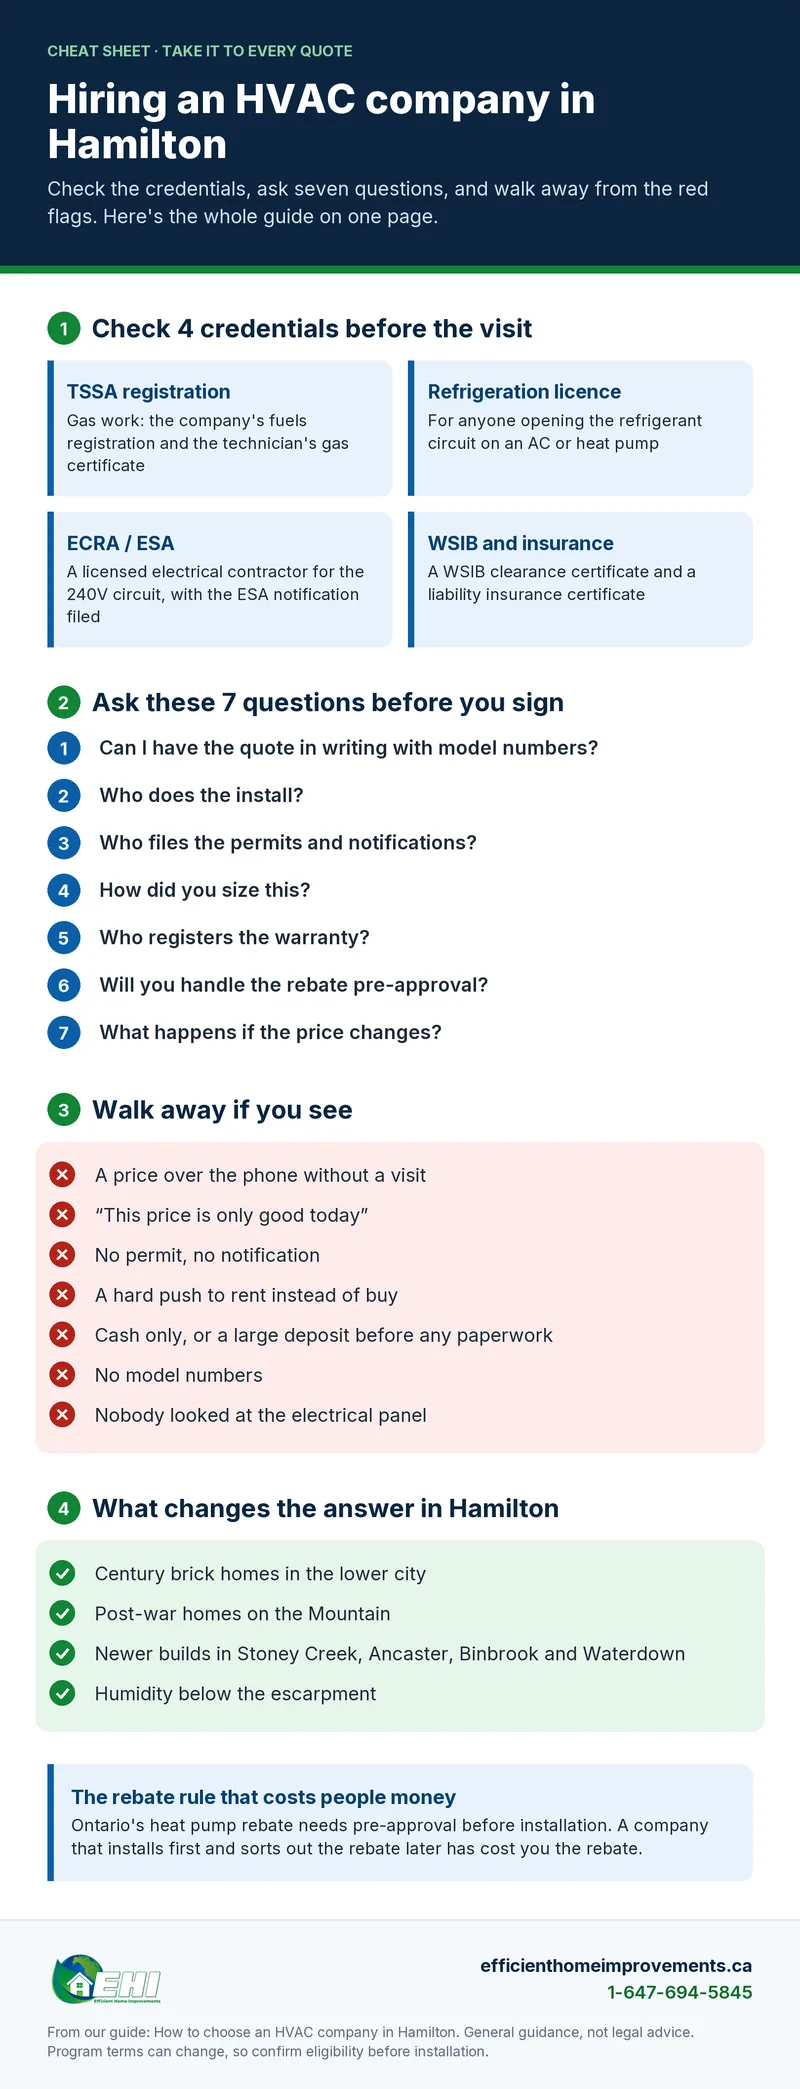
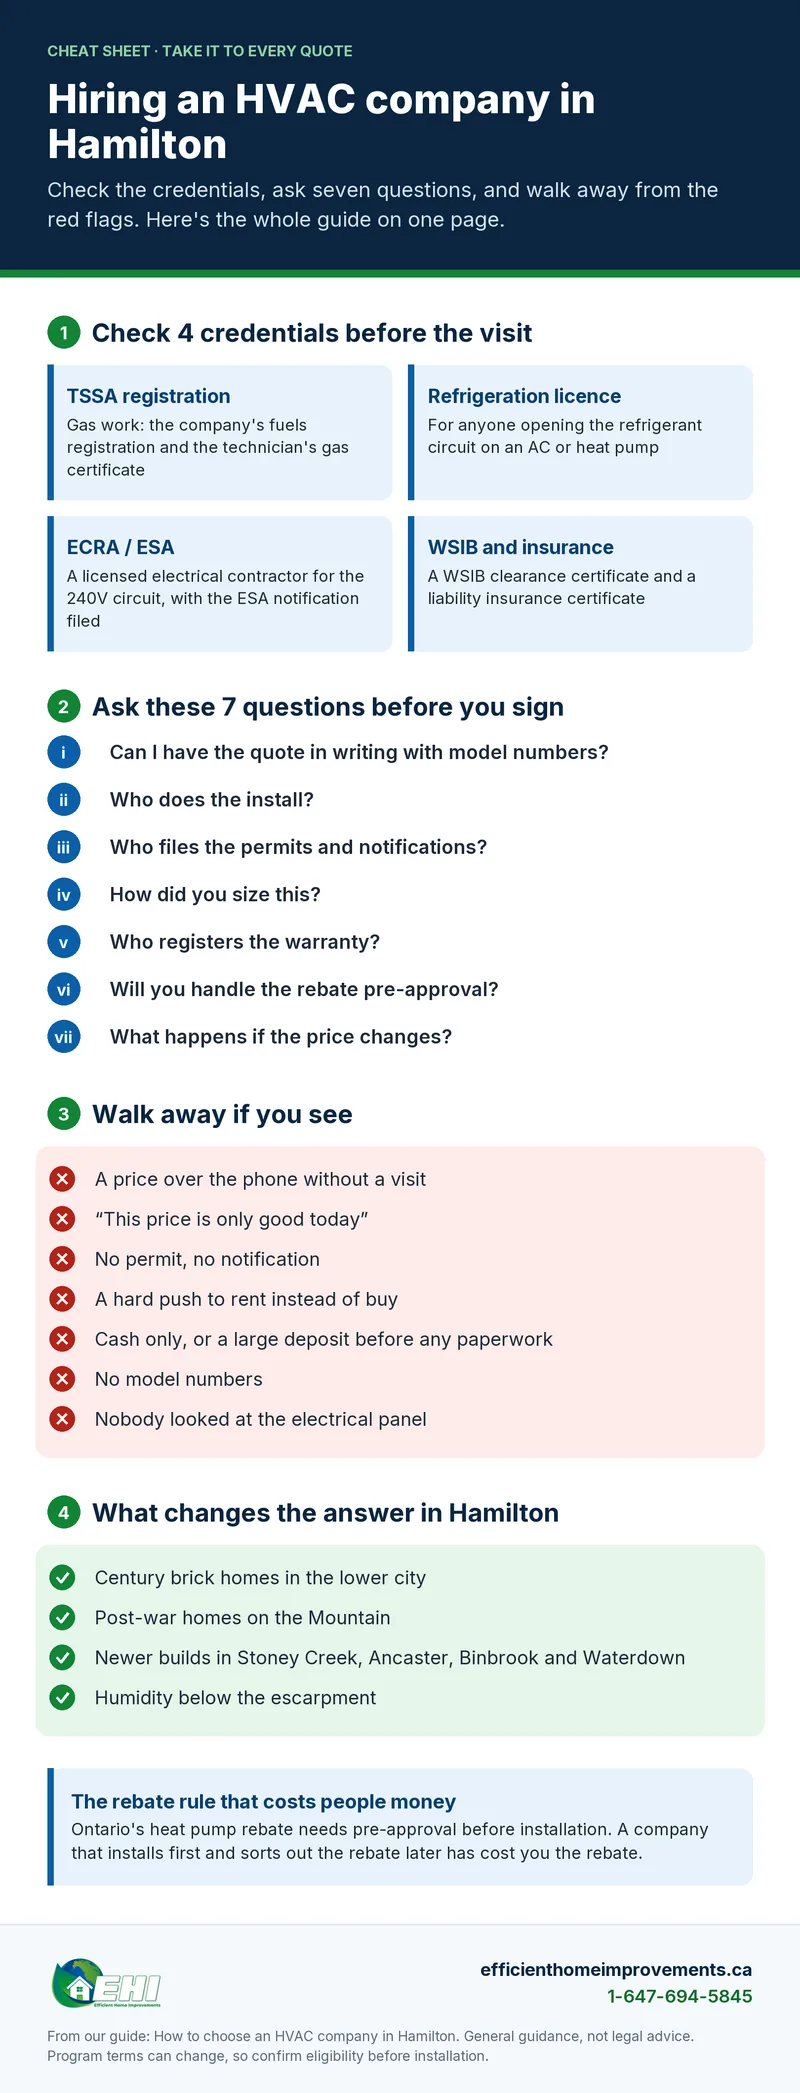
Rebate infographic: less text, large key figures, roman numerals for steps; roman numerals in city question lists; no caption on the rebate post; versioned infographic URLs

diff --git a/tools/make_infographics.py b/tools/make_infographics.py
@@ -72,20 +72,28 @@ def icon_x(c, cx, cy, r=17):
     k = r * .38
     c.line([(cx - k, cy - k), (cx + k, cy + k)], "white", 4)
     c.line([(cx - k, cy + k), (cx + k, cy - k)], "white", 4)
-def badge_num(c, cx, cy, n, r=22, bg=BLUE):
-    c.circle(cx, cy, r, bg)
-    c.text(cx, cy + 1, str(n), 24, "Bold", "white", "mm")
+ROMAN = ["i", "ii", "iii", "iv", "v", "vi", "vii", "viii", "ix", "x"]
+def badge_num(c, cx, cy, n, r=22, bg=BLUE, size=24):
+    """Round badge for 1 to 9; a pill when the label is longer (roman numerals)."""
+    label = str(n)
+    tw = font(size, "Bold").getlength(label) / S
+    if tw + 16 <= 2 * r:
+        c.circle(cx, cy, r, bg)
+    else:
+        c.rect(cx - r, cy - r, tw + 24, 2 * r, bg, r)
+        cx = cx - r + (tw + 24) / 2
+    c.text(cx, cy + 1, label, size, "Bold", "white", "mm")
 
 # ---------------------------------------------------------------- blocks
-def header(c, y, eyebrow, title, subtitle):
+def header(c, y, eyebrow, title, subtitle, tsize=54):
     inner = W - 2 * PAD
-    h = 56 + 26 + 18 + c.para_h(title, 54, inner, "ExtraBold", 1.12) + 18 + c.para_h(subtitle, 26, inner, lh=1.42) + 56
+    h = 56 + 26 + 18 + c.para_h(title, tsize, inner, "ExtraBold", 1.12) + (18 + c.para_h(subtitle, 28, inner, lh=1.42) if subtitle else 0) + 56
     c.rect(0, y, W, h, NAVY)
     c.rect(0, y + h - 10, W, 10, GREEN)
     yy = y + 56
     c.text(PAD, yy, eyebrow.upper(), 20, "Bold", "#8FD3A3"); yy += 26 + 18
-    yy = c.para(PAD, yy, title, 54, inner, "ExtraBold", "white", 1.12) + 18
-    c.para(PAD, yy, subtitle, 26, inner, fill="#D6E2EE", lh=1.42)
+    yy = c.para(PAD, yy, title, tsize, inner, "ExtraBold", "white", 1.12) + 18
+    if subtitle: c.para(PAD, yy, subtitle, 28, inner, fill="#D6E2EE", lh=1.42)
     return y + h
 
 def section_title(c, y, n, title):
@@ -111,10 +119,11 @@ def cards(c, y, items, cols=2, accent=BLUE):
 
 def numbered(c, y, items):
     tw = W - 2 * PAD - 70
-    for n, s in enumerate(items, 1):
+    tw = W - 2 * PAD - 84
+    for n, s in enumerate(items):
         h = max(48, c.para_h(s, 26, tw, "SemiBold"))
-        badge_num(c, PAD + 22, y + 18, n)
-        c.para(PAD + 70, y + 2, s, 26, tw, "SemiBold", TEXT)
+        badge_num(c, PAD + 22, y + 18, ROMAN[n], bg=BLUE, size=21)
+        c.para(PAD + 84, y + 2, s, 26, tw, "SemiBold", TEXT)
         y += h + 16
     return y - 16
 
@@ -148,17 +157,56 @@ def timeline(c, y, steps):
         c.para(PAD + 76, y2, b, 22, tw, fill=MUTED)
     return y - 26
 
-def table(c, y, head, rows):
+def steps(c, y, items, size=31):
+    """Ordered steps with roman labels. items: (text, tag or None); a tag marks the step that matters most."""
+    x0 = PAD + 26
+    pos, yy = [], y
+    for t, tag in items:
+        h = max(56, c.para_h(t, size, W - 2 * PAD - 260 if tag else W - 2 * PAD - 96, "Bold", 1.2))
+        pos.append((yy, h)); yy += h + 22
+    c.line([(x0, y + 26), (x0, pos[-1][0] + 26)], LINE, 5)
+    for n, ((t, tag), (sy, h)) in enumerate(zip(items, pos)):
+        badge_num(c, x0, sy + 26, ROMAN[n], 26, GREEN if tag else BLUE, 22)
+        c.para(PAD + 96, sy + 6, t, size, W - 2 * PAD - 260 if tag else W - 2 * PAD - 96, "Bold", NAVY, 1.2)
+        if tag:
+            tw = font(20, "Bold").getlength(tag.upper()) / S
+            c.rect(W - PAD - tw - 36, sy + 8, tw + 36, 40, GREEN_LIGHT, 20)
+            c.text(W - PAD - tw / 2 - 18, sy + 28, tag.upper(), 20, "Bold", GREEN_DARK, "mm")
+    return yy - 22
+
+def stat_cards(c, y, items):
+    """Two side-by-side cards led by a big number. items: (label, big, lines, tag, accent)."""
+    gap, inner = 24, W - 2 * PAD
+    cw = (inner - gap) / 2
+    tw = cw - 56
+    def height(label, big, lines, tag):
+        return 30 + 26 + 10 + 64 + 12 + sum(c.para_h(l, 25, tw, "Medium", 1.3) + 14 for l in lines) + 18 + 48 + 30
+    rh = max(height(*it[:4]) for it in items)
+    for i, (label, big, lines, tag, accent) in enumerate(items):
+        x = PAD + i * (cw + gap)
+        c.rect(x, y, cw, rh, SOFT, 18, LINE)
+        c.rect(x, y, cw, 10, accent, 0)
+        yy = y + 30
+        c.text(x + 28, yy, label.upper(), 21, "Bold", accent); yy += 26 + 10
+        c.text(x + 28, yy, big, 60, "ExtraBold", NAVY); yy += 64 + 12
+        for l in lines:
+            yy = c.para(x + 28, yy, l, 25, tw, "Medium", TEXT, 1.3) + 14
+        tw2 = font(20, "Bold").getlength(tag.upper()) / S
+        c.rect(x + 28, y + rh - 30 - 44, tw2 + 32, 44, accent, 22)
+        c.text(x + 28 + (tw2 + 32) / 2, y + rh - 30 - 22, tag.upper(), 20, "Bold", "white", "mm")
+    return y + rh
+
+def table(c, y, head, rows, size=24):
     inner = W - 2 * PAD
-    rh = 52
+    rh = round(size * 2.3)
     c.rect(PAD, y, inner, rh, BLUE_DARK, 12)
     c.text(PAD + 24, y + rh / 2, head[0], 22, "Bold", "white", "lm")
     c.text(PAD + inner - 24, y + rh / 2, head[1], 22, "Bold", "white", "rm")
     y += rh
     for i, (a, b) in enumerate(rows):
         c.rect(PAD, y, inner, rh, SOFT if i % 2 == 0 else "white")
-        c.text(PAD + 24, y + rh / 2, a, 24, "Medium", TEXT, "lm")
-        c.text(PAD + inner - 24, y + rh / 2, b, 24, "Bold", NAVY, "rm")
+        c.text(PAD + 24, y + rh / 2, a, size, "Medium", TEXT, "lm")
+        c.text(PAD + inner - 24, y + rh / 2, b, size + 2, "Bold", NAVY, "rm")
         y += rh
     c.rect(PAD, y - rh * (len(rows) + 1), inner, rh * (len(rows) + 1), None, 12, LINE)
     return y
@@ -211,31 +259,29 @@ def city_doc(city, questions, red_flags, homes_title, homes):
     return build
 
 def federal_doc(c):
-    y = header(c, 0, "Ontario heat pump rebates · updated November 3, 2026", "Two heat pump rebates. One order of steps.",
-               "Ontario's Home Renovation Savings Program and the federal National Heat Pump Rebate are separate programs. Here's how to protect both.")
+    y = header(c, 0, "Ontario heat pump rebates · updated November 3, 2026", "Two heat pump rebates. One order of steps.", None, 62)
     y = section_title(c, y + 52, 1, "Two separate programs")
-    y = cards(c, y, [
-        ("Ontario: Home Renovation Savings", "Up to $7,500 for homes heated by electricity, oil, propane or wood. Commonly up to $2,000 for Enbridge gas-heated homes. Pre-approval required before installation."),
-        ("Federal: National Heat Pump Rebate", "$2,000, or up to $10,000 for income-qualified households. Installs from November 1, 2026 may qualify retroactively. Applications expected in early 2027."),
+    y = stat_cards(c, y, [
+        ("Ontario", "Up to $7,500", ["Homes heated by electricity, oil, propane or wood", "Gas-heated homes: commonly up to $2,000"], "Pre-approval first", GREEN),
+        ("Federal", "$2,000", ["Or up to $10,000 if income-qualified", "Installs from Nov 1, 2026 may count"], "Opens early 2027", BLUE),
     ])
-    y = section_title(c, y + 52, 2, "The order that protects both")
-    y = timeline(c, y + 4, [
-        ("Check your Ontario tier", "Your current heating fuel decides it."),
-        ("Size the heat pump for the whole home", "From a heat-loss calculation, not a rule of thumb."),
-        ("Pick a model that's on both lists", "NRCan's qualified products list for Ontario, and the federal eligible product list by AHRI number."),
-        ("Get Ontario pre-approval", "Before anything is installed. Ontario's rebate can't look back."),
-        ("Install with an HVAC contractor", "On or after November 1, 2026 for the federal retroactive window."),
-        ("Keep your receipt", "Your name and address, the installer, make, model and AHRI number, number of units and total cost."),
-        ("Apply federally when the portal opens", "Expected in early 2027. Receipts must be submitted within 6 months."),
+    y = section_title(c, y + 56, 2, "The order that protects both")
+    y = steps(c, y + 4, [
+        ("Check your Ontario tier", None),
+        ("Size for the whole home", None),
+        ("Pick a model on both lists", None),
+        ("Get Ontario pre-approval", "Before install"),
+        ("Install with an HVAC contractor", None),
+        ("Keep your receipt", None),
+        ("Apply federally in early 2027", None),
     ])
-    y = section_title(c, y + 52, 3, "Federal $10,000 tier: Ontario income cut-offs")
-    y = table(c, y, ("Household size", "After-tax income at or below"),
-              [("1 person", "$46,981"), ("2 people", "$92,884"), ("3 people", "$119,850"), ("4 people", "$146,217"), ("5 or more people", "$158,202")])
-    c.para(PAD, y + 12, "2025 dollars, as published by the Government of Canada. Above the line, the federal rebate is $2,000.", 19, W - 2 * PAD, fill=MUTED)
-    y = callout(c, y + 70, "No combined total is guaranteed",
-                "Getting both depends on meeting each program's rules. Federal funding is subject to approval, and program details are still being finalized.",
+    y = section_title(c, y + 56, 3, "Who gets up to $10,000")
+    c.para(PAD, y - 4, "After-tax household income in Ontario at or below:", 25, W - 2 * PAD, "Medium", MUTED)
+    y = table(c, y + 38, ("Household size", "Income cut-off"),
+              [("1 person", "$46,981"), ("2 people", "$92,884"), ("3 people", "$119,850"), ("4 people", "$146,217"), ("5 or more", "$158,202")], 27)
+    y = callout(c, y + 44, "No combined total is guaranteed", "Each program has its own rules, and federal funding is subject to approval.",
                 "#FFF6E5", "#B7791F", "#7A4E0B")
-    return footer(c, y + 52, "Sources: Government of Canada, National Heat Pump Rebate page (checked November 3, 2026), and the Home Renovation Savings Program. Program terms can change, so confirm eligibility before installation.")
+    return footer(c, y + 52, "Source: Government of Canada, National Heat Pump Rebate (checked November 3, 2026), and Ontario's Home Renovation Savings Program. Program terms can change.")
 
 DOCS = {
  "national-heat-pump-rebate-ontario": federal_doc,

diff --git a/build.py b/build.py
@@ -683,11 +683,14 @@ def infographic_html(page):
     """Infographic drawn by tools/make_infographics.py: 800 px for the page, 1620 px behind the full-size link."""
     slug = page["url"].strip("/").split("/")[-1]
     full, small = f"/assets/img/infographics/{slug}.webp", f"/assets/img/infographics/{slug}-800.webp"
+    import hashlib
+    v = hashlib.md5(open(os.path.join(ROOT, full.lstrip("/")), "rb").read()).hexdigest()[:8]   # static files cache for a year; a redraw gets a new URL
+    full, small = f"{full}?v={v}", f"{small}?v={v}"
     from PIL import Image
-    w, h = Image.open(os.path.join(ROOT, small.lstrip("/"))).size
+    w, h = Image.open(os.path.join(ROOT, small.split("?")[0].lstrip("/"))).size
     ig = page["infographic"]
     return (f'<figure class="infographic"><img src="{small}" srcset="{small} 800w, {full} 1620w" sizes="{FEATURED_SIZES}" width="{w}" height="{h}" alt="{esc(ig["alt"])}" loading="lazy" decoding="async">'
-            f'<figcaption>{ig["caption"]} <a href="{full}">Open the full-size infographic</a> to save, print or share it.</figcaption></figure>')
+            + (f'<figcaption>{ig["caption"]} <a href="{full}">Open the full-size infographic</a> to save, print or share it.</figcaption>' if ig.get("caption") else "") + '</figure>')
 def og_image(page):
     """1200x630 JPEG share image cropped from the featured photo at its focal point; the logo for every other page."""
     if not page.get("featured"): return f"{SITE}/assets/img/ehi-logo.webp", None

diff --git a/content/blog-national-heat-pump-rebate.py b/content/blog-national-heat-pump-rebate.py
@@ -5,7 +5,7 @@ FED = "https://www.canada.ca/en/environment-climate-change/campaigns/one-million
 PAGE = {
  "url": "/blog/national-heat-pump-rebate-ontario/", "layout": "article", "guide": True,
  "featured": ("/assets/img/work/midea-cold-climate-heat-pump-lawn.webp", "Midea cold-climate heat pump on a stand above the lawn, installed by EHI", "50% 45%"),
- "infographic": {"after": 0, "alt": "Infographic comparing Ontario's Home Renovation Savings Program and the federal National Heat Pump Rebate, the seven steps that protect both rebates, and the Ontario income cut-offs for the federal $10,000 tier", "caption": "The whole post on one page: both programs, the order of steps and the federal income cut-offs."},
+ "infographic": {"after": 0, "alt": "Infographic comparing Ontario's Home Renovation Savings Program and the federal National Heat Pump Rebate, the seven steps that protect both rebates, and the Ontario income cut-offs for the federal $10,000 tier", "caption": ""},
  "published": "2026-11-03", "updated": "2026-11-03", "priority": "0.6",
  "keywords": "National Heat Pump Rebate, National Heat Pump Rebate Ontario, federal heat pump rebate, heat pump rebate 2027, retroactive heat pump rebate, combine federal and Ontario heat pump rebates",
  "title": "National Heat Pump Rebate: What to Do Now in Ontario",
